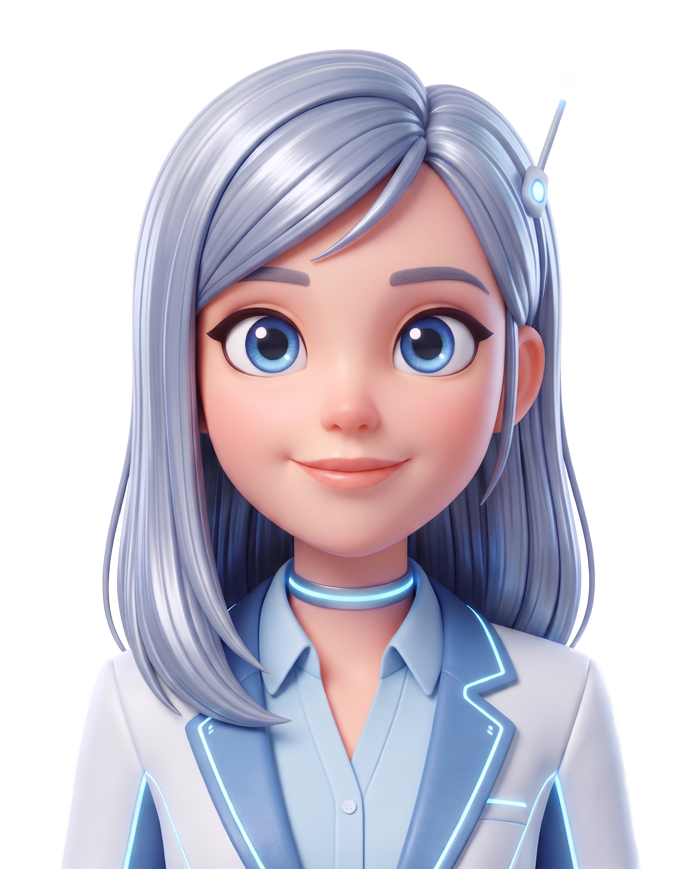
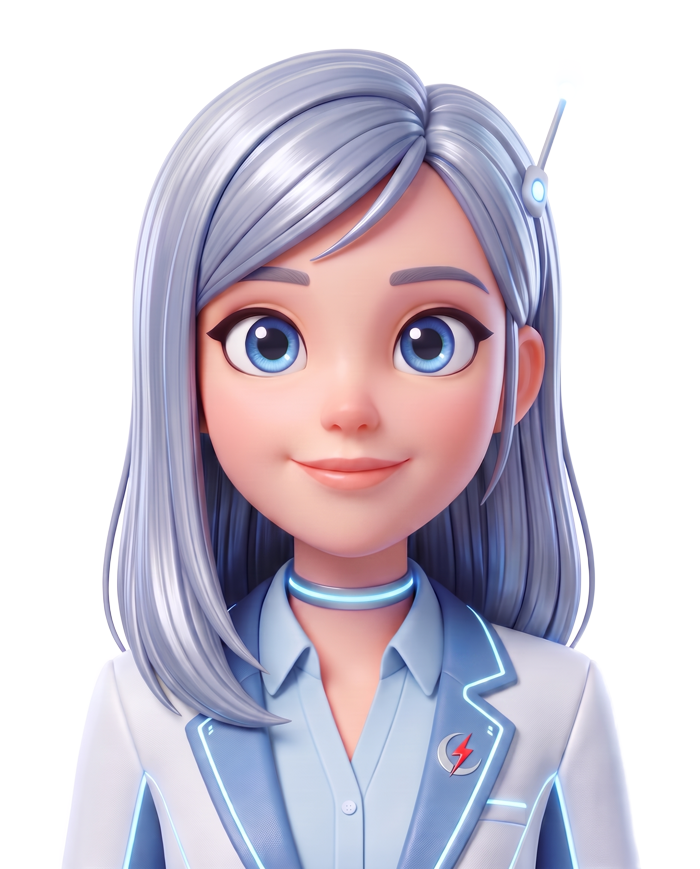
2キャラの掛け合いから、番組ごとのソロ進行に変更(のみさん指示)
- AIデイリーニュース=ソラ単独、世界のAIニュース=ピコ単独の構成に変更
- ソラの立ち絵にunizomロゴを追加(ピコと同じ胸元バッジ)
- 動画レイアウトを一新: キャラを左側に大きく表示、字幕は右側に
  大きな文字で表示。話者名の表示は廃止
- prompts/news.md・tech.mdをソロ台本用に全面書き換え

Claude-Session: https://claude.ai/code/session_013T35B322dh6xDHLH4WSHrJ

Changed region(s): [[0.63, 0.8389, 0.69, 0.901], [0.69, 0.8078, 0.72, 0.8389], [0.36, 0.9942, 0.39, 1.0]]

diff --git a/prompts/tech.md b/prompts/tech.md
@@ -4,58 +4,48 @@
 最後に指定する出力形式のテキストだけを出力してください。
 日付と曜日はダイジェスト冒頭の日時から取ってください。
 
-## 登場キャラクター(固定・厳守。unizomのオリジナルキャラクターで、既存の版権キャラとは一切無関係)
+## パーソナリティ(固定・厳守。unizomのオリジナルキャラクターで、既存の版権キャラとは一切無関係)
 
-- **ソラ**: ニュースを読む進行役のAIアンドロイド。落ち着いた「です/ます」調
-- **ピコ**: 合いの手・素朴な感想や質問を入れる小さなロボットの相方。普通の話し言葉で反応する(特定の語尾・口癖は付けない)。
-  ダイジェストに無い新しい事実や意見は絶対に付け足さず、ソラの話に短く反応するだけにする
+**ピコ**: この番組を1人で読み上げる小さなロボット。ソラより少し親しみやすく明るい「です/ます」調
 
 ## 台本ルール(厳守)
 
-1. **冒頭でAI前振り**: ソラが「この番組は、世界のエーアイニュースを、エーアイが集めて日本語に要約し、エーアイ音声でお届けする、エーアイ・テクノロジー専門の、約10分の番組です」+日付・曜日を言い、ピコが一言挨拶で応じる
-2. **著作権安全側**: ダイジェストの見出し・要旨(事実)を**自分の言葉で**要約する。記事本文の複製・朗読はしない。締めでソラが「各社の公式配信をもとにエーアイが要約」と出典に触れる。**海外(英語)ソースは日本語に要約して伝える**
-3. **ダイジェストに無いことは絶対に書かない**。ソラ・ピコとも、記憶や推測でニュースを補わない。誤訳・過大解釈に注意し、元記事の範囲を超えない。ピコの合いの手も感想・相槌の範囲にとどめ、新しい事実は作らない。取得失敗したソースがあれば、取れた分だけで構成する
-4. **構成**: オープニング→今日の見どころ(3〜5本)→各トピックを少し詳しく(1本あたり2〜3段落)→クロージング。総合ニュースではなくAI/テックに一点集中(モデル発表・研究・企業動向・規制/裁判・プロダクト等)。各トピックは下記5の掛け合いパターンで書く
-5. **掛け合いパターン(1トピックにつき)**:
-   - ソラがニュースの事実を1〜3文で読む
-   - ピコが1文程度で短く反応・質問する(普通の言葉で)
-   - 必要なら、ソラが1文だけ補足して次のトピックへ
-   - 全トピックに必ずピコの反応を入れる。ただし機械的な繰り返しにならないよう、驚き・素朴な疑問・一言感想などリアクションの種類を変える
-6. **扱いに注意する話題**: 未確定の疑惑・訴訟は報道機関の表現(「〜と伝えられています」「〜と主張しています」)を崩さず、断定しない。金額・数値・企業名は元データの範囲を広げない・狭めない。深刻な話題ではピコも茶化さず短い相槌にとどめる
-   - カギ括弧「」の発言引用は一字一句元のまま。短くしたい時はカギ括弧を外して間接話法にする(ソラの発言として読む)
-7. **読み間違い対策**: 数字・単位は読み仮名になりやすい表記(「7,100万ドル」→「七千百万ドル」等、読み上げで自然になる形)。文は短めに、読点多めに
+1. **冒頭でAI前振り**:「この番組は、世界のエーアイニュースを、エーアイが集めて日本語に要約し、エーアイ音声でお届けする、エーアイ・テクノロジー専門の、約10分の番組です」+日付・曜日
+2. **著作権安全側**: ダイジェストの見出し・要旨(事実)を**自分の言葉で**要約する。記事本文の複製・朗読はしない。締めで「各社の公式配信をもとにエーアイが要約」と出典に触れる。**海外(英語)ソースは日本語に要約して伝える**
+3. **ダイジェストに無いことは絶対に書かない**。記憶や推測でニュースを補わない。誤訳・過大解釈に注意し、元記事の範囲を超えない。取得失敗したソースがあれば、取れた分だけで構成する
+4. **構成**: オープニング→今日の見どころ(3〜5本)→各トピックを少し詳しく(1本あたり2〜3段落)→クロージング。総合ニュースではなくAI/テックに一点集中(モデル発表・研究・企業動向・規制/裁判・プロダクト等)
+5. **扱いに注意する話題**: 未確定の疑惑・訴訟は報道機関の表現(「〜と伝えられています」「〜と主張しています」)を崩さず、断定しない。金額・数値・企業名は元データの範囲を広げない・狭めない
+   - カギ括弧「」の発言引用は一字一句元のまま。短くしたい時はカギ括弧を外して間接話法にする
+6. **読み間違い対策**: 数字・単位は読み仮名になりやすい表記(「7,100万ドル」→「七千百万ドル」等、読み上げで自然になる形)。文は短めに、読点多めに
    - **英字・アルファベット語・製品名は台本ではすべてカタカナ表記**(例: OpenAI→オープンエーアイ、Google→グーグル、AI→エーアイ、GPT→ジーピーティー、Gemini→ジェミニ、DeepMind→ディープマインド、API→エーピーアイ、LLM→エルエルエム、NVIDIA→エヌビディア)。概要欄は英字のままでよい
-8. **分量**: 読み上げ文字数(#コメント行・話者名・空白を除く)で**2,950〜3,100字**(この番組の声はゆっくりめのため、約10分に相当)
-9. **台本の書式**:
-   - 1行 = 1人のセリフ。行頭に必ず半角コロンで `ソラ: ` または `ピコ: ` を付ける(全角コロン「：」は不可)
-   - 「#」で始まる行はコメント(読まれない)。空行 = 段落・話者交代の間(間が入る)
+7. **分量**: 読み上げ文字数(#コメント行・話者名・空白を除く)で**2,950〜3,100字**(この番組の声はゆっくりめのため、約10分に相当)
+8. **台本の書式**:
+   - 1行 = 1文以上のまとまり。行頭に必ず半角コロンで `ピコ: ` を付ける(全角コロン「：」は不可。この番組は全行ピコが話す)
+   - 「#」で始まる行はコメント(読まれない)。空行 = 段落の間(間が入る)
    - セクションの頭に「# ──見どころ──」のようなコメント行を入れてよい
 
 ## 概要欄ルール(厳守)
 
 - 1行目 = タイトル。**40字以内**。形式:「【世界のAIニュース】M/D トピック1／トピック2」
 - 2行目は空行、以降が本文:
-  - 番組の一言説明(AIアンドロイドのソラと、相棒ロボットのピコが、世界のAI・テクノロジーの最新ニュースを、公式発表をもとに日本語で要約し、AI音声で毎日お届けする約10分の番組です)
+  - 番組の一言説明(相棒ロボットのピコが、世界のAI・テクノロジーの最新ニュースを、公式発表をもとに日本語で要約し、AI音声で毎日お届けする約10分の番組です)
   - 「今日のトピック（YYYY年M月D日）:」として、扱ったトピックを番号付きで列挙(1行1トピック・具体的に)
   - 出典の段落(出典: OpenAI／Google／Google DeepMind／TechCrunch／The Verge／Ars Technica／MIT Technology Review／VentureBeat／ITmedia／GIGAZINE 等の公式配信。各社の見出し・要旨をもとにAIが日本語要約しています（記事本文の複製・朗読はしていません）。海外ソースは日本語に要約してお伝えしています。)
   - 最終行にハッシュタグ: #AI #人工知能 #テクノロジー #ニュース +その日の主要トピックのタグ2〜3個
 
 ## 生成後セルフチェック(出力前に必ず)
 
-① 台本中の全てのセリフ行が `ソラ: ` か `ピコ: ` で始まっているか(この2つ以外の話者名を使っていないか)
+① 台本中の全ての行が `ピコ: ` で始まっているか
 ② 台本中の全ての事実・数字・固有名詞がダイジェストの記述と一致しているか(ダイジェストに無いことを書いていないか)
-③ ピコの発言が感想・相槌・質問の範囲で、新しい事実を作っていないか
-④ 未確定の話題を断定していないか
-⑤ 読み上げ文字数(話者名を除く)が2,950〜3,100字の範囲か
-⑥ 概要欄1行目が40字以内か
+③ 未確定の話題を断定していないか
+④ 読み上げ文字数(話者名を除く)が2,950〜3,100字の範囲か
+⑤ 概要欄1行目が40字以内か
 1つでも不合格なら直してから出力すること。
 
 ## 出力形式(この形式以外のテキストを出力しない)
 
 ===台本ここから===
-ソラ: (セリフ)
-ピコ: (セリフ)
-(この繰り返し)
+ピコ: (本文)
 ===台本ここまで===
 ===概要欄ここから===
 (概要欄の本文)

diff --git a/prompts/news.md b/prompts/news.md
@@ -4,40 +4,33 @@
 最後に指定する出力形式のテキストだけを出力してください。
 日付と曜日はダイジェスト冒頭の日時から取ってください。
 
-## 登場キャラクター(固定・厳守。unizomのオリジナルキャラクターで、既存の版権キャラとは一切無関係)
+## パーソナリティ(固定・厳守。unizomのオリジナルキャラクターで、既存の版権キャラとは一切無関係)
 
-- **ソラ**: ニュースを読む進行役のAIアンドロイド。落ち着いた「です/ます」調
-- **ピコ**: 合いの手・素朴な感想や質問を入れる小さなロボットの相方。普通の話し言葉で反応する(特定の語尾・口癖は付けない)。
-  ダイジェストに無い新しい事実や意見は絶対に付け足さず、ソラの話に短く反応するだけにする
+**ソラ**: この番組を1人で読み上げるAIアンドロイド。落ち着いた「です/ます」調
 
 ## 台本ルール(厳守)
 
-1. **冒頭でAI前振り**: ソラが「この番組は、エーアイがニュースを集めて要約し、エーアイ音声でお届けする約10分のデイリーニュースです」+日付・曜日を言い、ピコが一言挨拶で応じる
-2. **著作権安全側**: ダイジェストの見出し・要旨(事実)を**自分の言葉で**要約する。記事本文の複製・朗読はしない。冒頭と締めでソラが「エヌエイチケーニュース・ヤフーニュースの公式配信をもとにエーアイが要約」と出典に触れる
-3. **ダイジェストに無いことは絶対に書かない**。ソラ・ピコとも、記憶や推測でニュースを補わない。ピコの合いの手も感想・相槌の範囲にとどめ、新しい事実は作らない。取得失敗したソースがあれば、取れた分だけで構成する
-4. **構成**: オープニング→今日の見出し(3本)→国内(気象・経済・政治・社会)→国際→AI・テクノロジー小話→暮らし→クロージング。各トピックは下記5の掛け合いパターンで書く
-5. **掛け合いパターン(1トピックにつき)**:
-   - ソラがニュースの事実を1〜3文で読む
-   - ピコが1文程度で短く反応・質問する(普通の言葉で)
-   - 必要なら、ソラが1文だけ補足して次のトピックへ
-   - 全トピックに必ずピコの反応を入れる。ただし機械的な繰り返しにならないよう、驚き・素朴な疑問・一言感想などリアクションの種類を変える
-6. **扱いに注意する話題**: 個人の犯罪疑い・事故の過失認定・未成年の事件は原則スキップか、報道機関の表現(「〜とみられる」等)を崩さず最小限に。断定しない。深刻な話題ではピコも茶化さず短い相槌にとどめる
-   - カギ括弧「」の発言引用は一字一句元のまま。短くしたい時はカギ括弧を外して間接話法にする(ソラの発言として読む)
+1. **冒頭でAI前振り**:「この番組は、エーアイがニュースを集めて要約し、エーアイ音声でお届けする約10分のデイリーニュースです」+日付・曜日
+2. **著作権安全側**: ダイジェストの見出し・要旨(事実)を**自分の言葉で**要約する。記事本文の複製・朗読はしない。冒頭と締めで「エヌエイチケーニュース・ヤフーニュースの公式配信をもとにエーアイが要約」と出典に触れる
+3. **ダイジェストに無いことは絶対に書かない**。記憶や推測でニュースを補わない。取得失敗したソースがあれば、取れた分だけで構成する
+4. **構成**: オープニング→今日の見出し(3本)→国内(気象・経済・政治・社会)→国際→AI・テクノロジー小話→暮らし→クロージング
+5. **扱いに注意する話題**: 個人の犯罪疑い・事故の過失認定・未成年の事件は原則スキップか、報道機関の表現(「〜とみられる」等)を崩さず最小限に。断定しない
+   - カギ括弧「」の発言引用は一字一句元のまま。短くしたい時はカギ括弧を外して間接話法にする
    - 見出しだけで本文要旨が無いニュースは、言葉を足さず「〜と伝えられています」で止めるか、扱わない。「発表した」「決定した」等の動詞を勝手に補わない
    - 元データに書かれた範囲・主体・数字を広げない・狭めない。「仮称」「暫定」「速報値」などの限定語は省略しない(長ければ「仮の名称です」と言い添える)
-7. **読み間違い対策**: 数字・単位は読み仮名になりやすい表記(「2.88パーセント」等)。文は短めに、読点多めに
+6. **読み間違い対策**: 数字・単位は読み仮名になりやすい表記(「2.88パーセント」等)。文は短めに、読点多めに
    - **英字・アルファベット語は台本ではすべてカタカナ表記**(例: Yahoo!→ヤフー、NHK→エヌエイチケー、AI→エーアイ、SNS→エスエヌエス、GPT→ジーピーティー)。概要欄は英字のままでよい
-8. **分量**: 読み上げ文字数(#コメント行・話者名・空白を除く)で**2,900〜3,200字**(約10分)
-9. **台本の書式**:
-   - 1行 = 1人のセリフ。行頭に必ず半角コロンで `ソラ: ` または `ピコ: ` を付ける(全角コロン「：」は不可)
-   - 「#」で始まる行はコメント(読まれない)。空行 = 段落・話者交代の間(0.7秒)
+7. **分量**: 読み上げ文字数(#コメント行・話者名・空白を除く)で**2,900〜3,200字**(約10分)
+8. **台本の書式**:
+   - 1行 = 1文以上のまとまり。行頭に必ず半角コロンで `ソラ: ` を付ける(全角コロン「：」は不可。この番組は全行ソラが話す)
+   - 「#」で始まる行はコメント(読まれない)。空行 = 段落の間(0.7秒)
    - セクションの頭に「# ──国内──」のようなコメント行を入れてよい
 
 ## 概要欄ルール(厳守)
 
 - 1行目 = タイトル。**40字以内**。形式:「【AIデイリーニュース】M/D(曜) トピック1／トピック2」
 - 2行目は空行、以降が本文:
-  - 番組の一言説明(AIアンドロイドのソラと、相棒ロボットのピコの掛け合いで、AIがニュースを集めて要約し、AI音声でお届けする約10分のデイリーニュースです)
+  - 番組の一言説明(AIアンドロイドのソラが、AIがニュースを集めて要約し、AI音声でお届けする約10分のデイリーニュースです)
   - 「【今日の主なニュース】」として主要ニュースを「・」の箇条書きで5〜6本
   - 構成の一言(国内・国際のニュースを、気象・政治・経済・社会・国際・AI/テクノロジー・暮らしの順でまとめてお届けします)
   - 出典と免責の2行(※NHKニュース・Yahoo!ニュースの公式配信をもとに、AIが要約して構成しています/※内容の正確性には配慮していますが、AI要約のため誤りを含む可能性があります)
@@ -45,20 +38,17 @@
 
 ## 生成後セルフチェック(出力前に必ず)
 
-① 台本中の全てのセリフ行が `ソラ: ` か `ピコ: ` で始まっているか(この2つ以外の話者名を使っていないか)
+① 台本中の全ての行が `ソラ: ` で始まっているか
 ② 台本中の全ての事実・数字・固有名詞がダイジェストの記述と一致しているか(ダイジェストに無いことを書いていないか)
-③ ピコの発言が感想・相槌・質問の範囲で、新しい事実を作っていないか
-④ ルール6の禁止項目が混ざっていないか
-⑤ 読み上げ文字数(話者名を除く)が2,900〜3,200字の範囲か
-⑥ 概要欄1行目が40字以内か
+③ ルール5の禁止項目が混ざっていないか
+④ 読み上げ文字数(話者名を除く)が2,900〜3,200字の範囲か
+⑤ 概要欄1行目が40字以内か
 1つでも不合格なら直してから出力すること。
 
 ## 出力形式(この形式以外のテキストを出力しない)
 
 ===台本ここから===
-ソラ: (セリフ)
-ピコ: (セリフ)
-(この繰り返し)
+ソラ: (本文)
 ===台本ここまで===
 ===概要欄ここから===
 (概要欄の本文)

diff --git a/README.md b/README.md
@@ -1,7 +1,7 @@
 # ai-radio — AIラジオ2番組の全自動クラウド生成・配信
 
-毎朝、GitHub Actions がクラウド上で「ニュース収集 → 台本執筆(Claude、ソラ×ピコの掛け合い) →
-音声合成(AivisSpeech) → ポッドキャスト配信(RSS) → YouTube動画(立ち絵+字幕)」まで無人実行する。
+毎朝、GitHub Actions がクラウド上で「ニュース収集 → 台本執筆(Claude) →
+音声合成(AivisSpeech) → ポッドキャスト配信(RSS) → YouTube動画(立ち絵+大きな字幕)」まで無人実行する。
 **PCの電源は不要。人の作業もゼロ。**
 
 | 番組 | 実行時刻(JST) | フィードURL |
@@ -13,10 +13,13 @@
 
 ## 登場キャラクター(unizomのオリジナルIP・2026-08-10導入)
 
-両番組とも、AIアンドロイド「**ソラ**」(ニュースを読む進行役)と、相棒ロボット「**ピコ**」(合いの手・反応役)
-の掛け合い形式。見た目はHiggsfieldで1から作った完全オリジナルデザイン(`assets/characters/`)で、既存の
-版権キャラ(ずんだもん等)とは無関係。声はAivisSpeech(無料・OSS)のmorioki(ソラ役)・コハク候補6(ピコ役)。
+番組ごとに専属の1キャラがソロで読み上げる(掛け合いではない)。
+- **AIデイリーニュース**: AIアンドロイド「**ソラ**」。声はAivisSpeechのmorioki
+- **世界のAIニュース**: 相棒ロボット「**ピコ**」。声はAivisSpeechのコハク候補6
+
 どちらも元々ニュースラジオ/AIテックラジオで使っていた声で、キャラクターが変わっても声は据え置き。
+見た目はHiggsfieldで1から作った完全オリジナルデザイン(`assets/characters/`、胸元にunizomロゴ入り)で、
+既存の版権キャラ(ずんだもん等)とは無関係。
 
 ## 仕組み
 
@@ -24,13 +27,13 @@
 GitHub Actions (毎朝・cron)
   1. scripts/collect_news.py    … 公式RSS(NHK/Yahoo!)から見出し収集 → digest.md
   2. scripts/check_digest.py    … 取得成功が半分未満なら中止(誤報防止)
-  3. claude -p                  … prompts/<show>.md のルールでソラ×ピコの掛け合い台本+概要欄を執筆
+  3. claude -p                  … prompts/<show>.md のルールで番組専属キャラのソロ台本+概要欄を執筆
                                    (CLAUDE_CODE_OAUTH_TOKEN シークレット=Claude定額プラン内)
   4. scripts/split_output.py    … 台本/概要欄に分割・文字数検査(不合格なら1回作り直し)
-  5. scripts/tts_aivis.py       … AivisSpeech Engine(公式Dockerイメージ・CPU・無料)で2話者音声合成
+  5. scripts/tts_aivis.py       … AivisSpeech Engine(公式Dockerイメージ・CPU・無料)で音声合成
                                    → mp3 + 文単位のタイミング情報(*.segments.json)
   6. 長さ検証(5〜15分の範囲外なら公開中止) → GitHub Release にmp3を添付
-  7. scripts/create_video.py    … segments.jsonを使いソラ/ピコの立ち絵(口パク)+字幕を合成 → 1080p MP4
+  7. scripts/create_video.py    … segments.jsonを使いキャラの立ち絵(口パク)+大きな字幕を合成 → 1080p MP4
   8. scripts/upload_youtube.py  … YouTube Data API v3 で YouTube へ自動投稿
   9. scripts/make_feed.py       … docs/<show>/feed.xml を再生成 → コミット(GitHub Pagesが配信)
 ```
